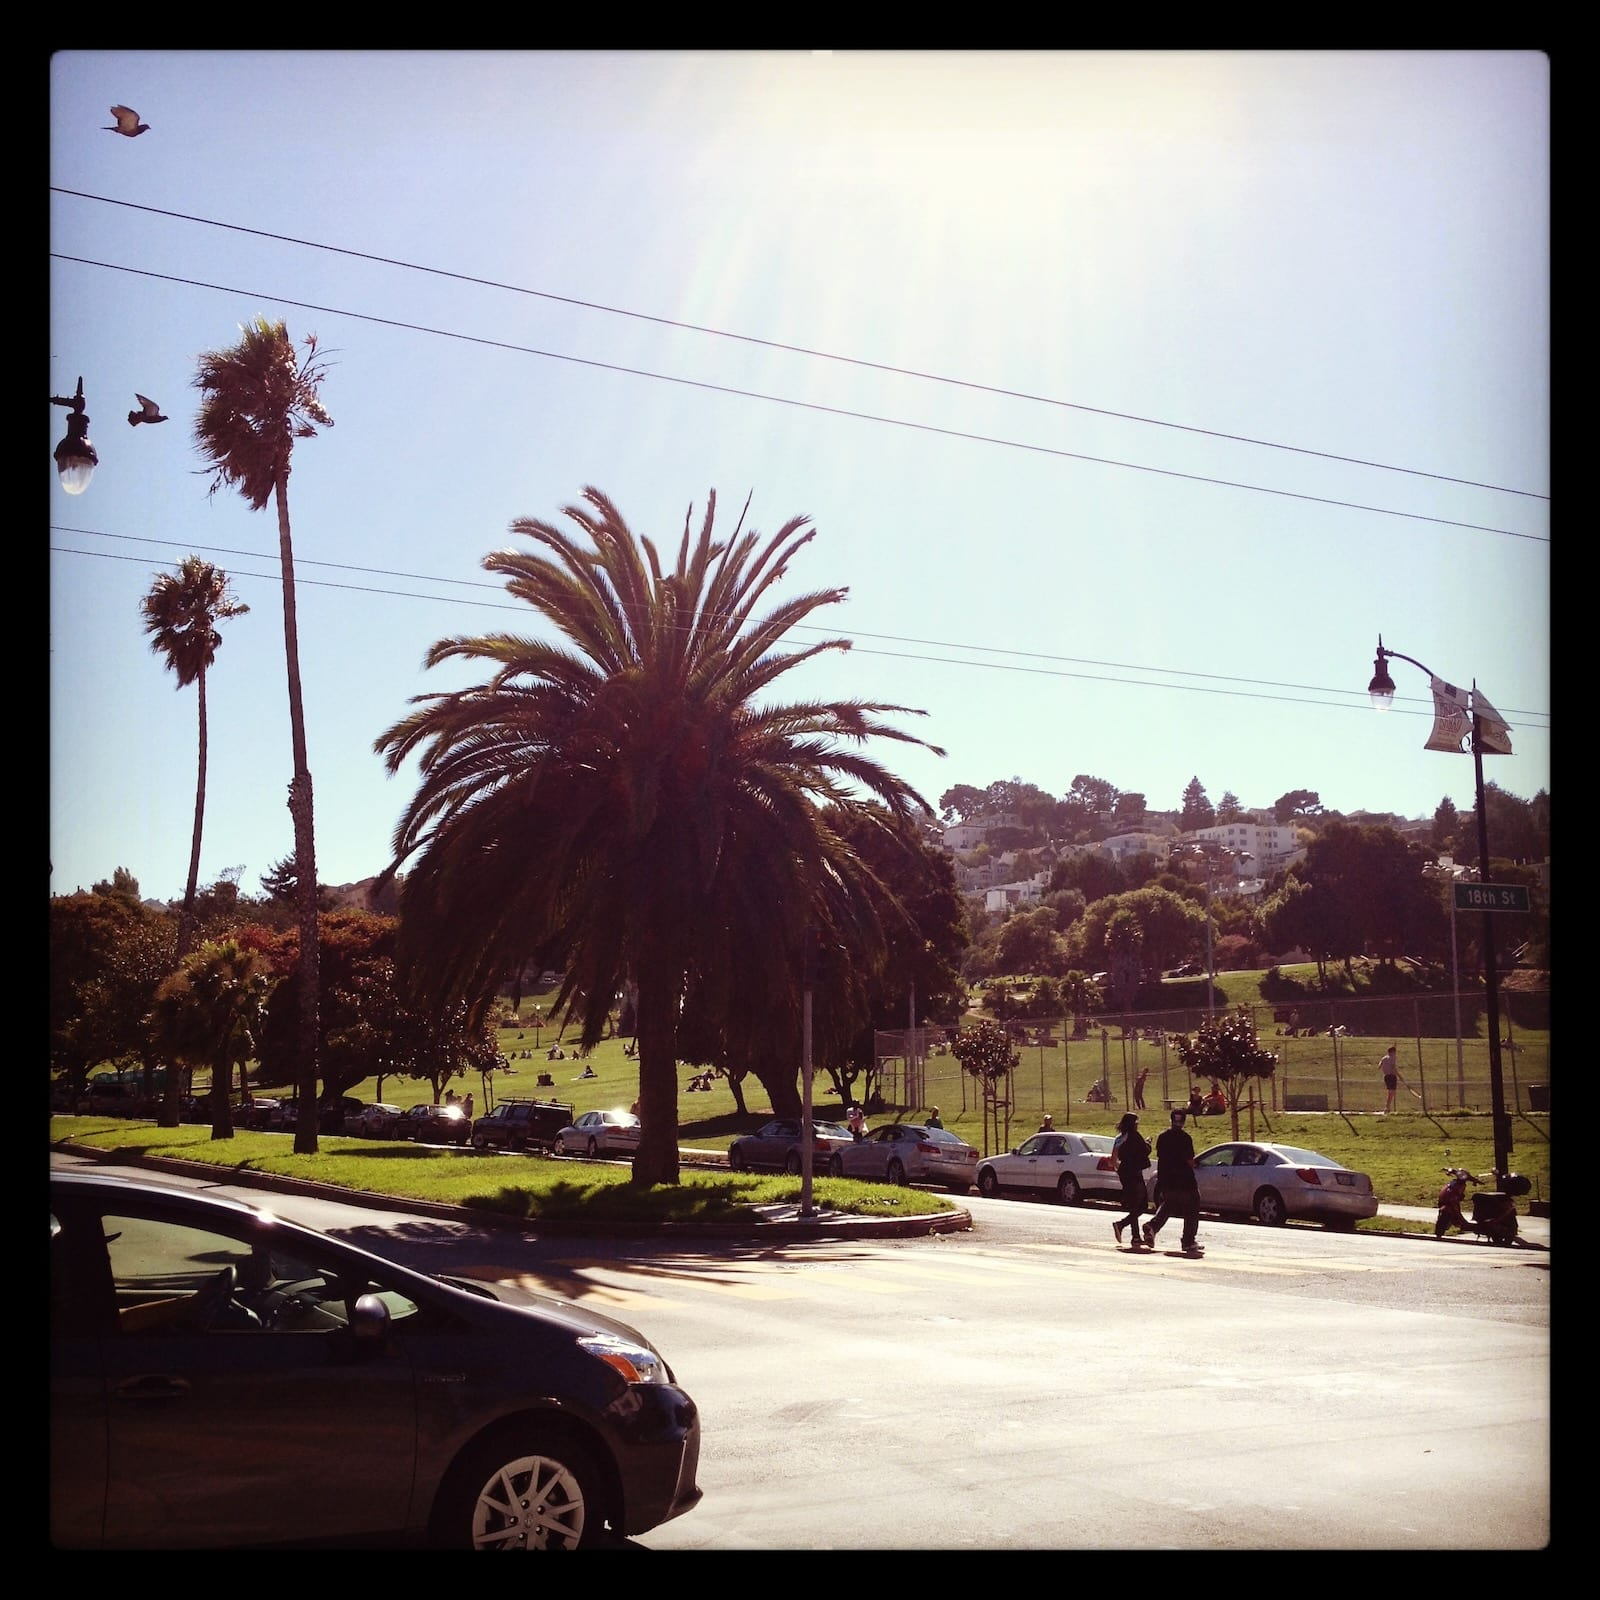
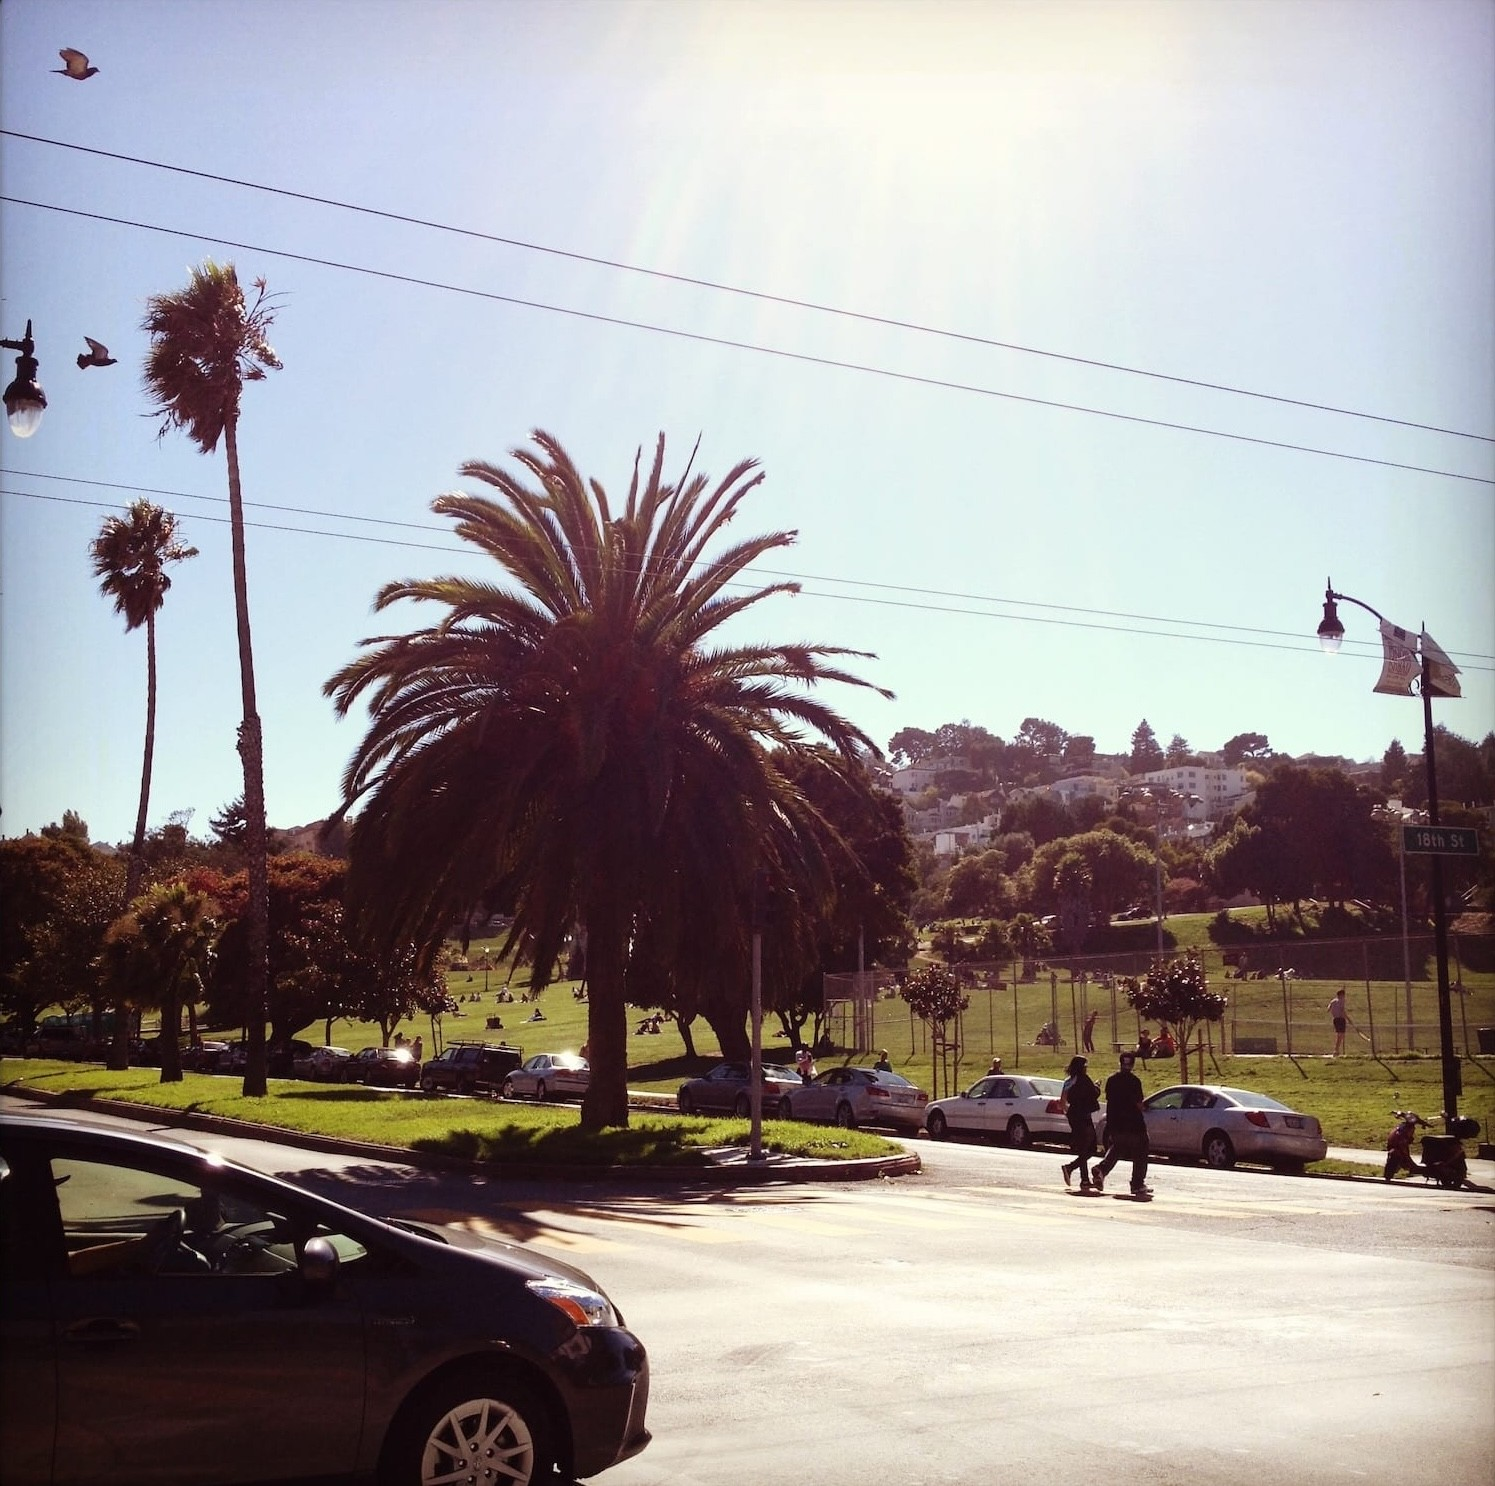
Add social links and refresh Work card content
Add LinkedIn, GitHub and Instagram links on the About page, fill in the
Trainn project descriptions, top-align the Work cards, and replace the
Dolores Park photo.

diff --git a/lib/content.ts b/lib/content.ts
@@ -3,13 +3,18 @@
 export const site = {
   name: "Sam Roth",
   tagline: "Operator, PM, Founder",
-  email: "sam@trainn.pro",
+  email: "samgroth@gmail.com",
+  socials: {
+    linkedin: "https://www.linkedin.com/in/samuelgroth/",
+    github: "https://github.com/sam-trainnpro",
+    instagram: "https://www.instagram.com/sgroth/",
+  },
 };
 
 export type Project = {
   title: string;
   company?: string;
-  year: string;
+  year?: string;
   summary: string;
   // Tailwind gradient classes for the card panel until a real image is added.
   gradient: string;
@@ -29,37 +34,38 @@ export const projects: Project[] = [
   {
     title: "Trainn: Promo Codes + Credits",
     year: "Sept 2025",
-    summary: "PLACEHOLDER: the problem, what you did, and the result.",
+    summary:
+      "Feature to offer admin or provider created promo codes and referral credits.",
     gradient: "from-amber-200 via-orange-200 to-rose-300",
     image: { src: "/work/trainn-promo-codes.webp", width: 675, height: 1439 },
   },
   {
-    title: "PLACEHOLDER project",
-    company: "Fenix",
-    year: "Year",
-    summary: "PLACEHOLDER: the problem, what you did, and the result.",
+    title: "Trainn: Subscription Service",
+    summary: "Built subscription packages.",
     gradient: "from-emerald-200 via-teal-200 to-cyan-300",
   },
   {
-    title: "PLACEHOLDER project",
-    company: "Clean Focus",
-    year: "Year",
-    summary: "PLACEHOLDER: the problem, what you did, and the result.",
+    title: "Personal: Practice Hard Conversations",
+    summary: "Have the conversation with AI before having it live.",
+    gradient: "from-fuchsia-200 via-pink-200 to-rose-300",
+  },
+  {
+    title: "Sunrun: New Market Analysis Tool",
+    summary: "A product to evaluate potential new markets by zip code.",
     gradient: "from-lime-200 via-emerald-200 to-teal-300",
   },
   {
-    title: "PLACEHOLDER side project",
-    company: "Side Project",
-    year: "Year",
-    summary: "PLACEHOLDER: something you built for fun.",
-    gradient: "from-fuchsia-200 via-pink-200 to-rose-300",
+    title: "Personal: Learn to Read",
+    summary: "A program to help my kids learn to read.",
+    gradient: "from-yellow-200 via-amber-200 to-orange-300",
   },
 ];
 
 export const about = {
   headline:
     "15 years chasing impact locally and globally. GM/operator turned PM turned Founder. Dad of two, longboard surfer, campfire guitarist.",
-  contactLine: "PLACEHOLDER: Always happy to talk product, startups, or ___.",
+  contactLine:
+    "Always happy to talk product, guitar songs, or beginner surf breaks.",
 };
 
 export type Row = {
@@ -86,7 +92,7 @@ export const cameraRoll: {
   width: number;
   height: number;
 }[] = [
-  { src: "/photos/01-dolores-park.jpg", caption: "Dolores Park, San Francisco", width: 1600, height: 1600 },
+  { src: "/photos/01-dolores-park.jpg", caption: "Dolores Park, San Francisco", width: 1495, height: 1486 },
   { src: "/photos/02-great-wall-china.jpg", caption: "Great Wall, China", width: 1600, height: 2134 },
   { src: "/photos/03-aspen-bowl.jpg", caption: "Aspen Bowl", width: 1600, height: 1200 },
   { src: "/photos/04-elephants-zambia.jpg", caption: "Elephants, Zambia", width: 1600, height: 1200 },

diff --git a/components/social-links.tsx b/components/social-links.tsx
@@ -1,0 +1,61 @@
+import { site } from "@/lib/content";
+
+// Outline brand icons in the same style as the lucide icons used elsewhere (lucide no longer ships brand logos).
+const icons = {
+  linkedin: (
+    <>
+      <path d="M16 8a6 6 0 0 1 6 6v7h-4v-7a2 2 0 0 0-2-2 2 2 0 0 0-2 2v7h-4v-7a6 6 0 0 1 6-6z" />
+      <rect x="2" y="9" width="4" height="12" />
+      <circle cx="4" cy="4" r="2" />
+    </>
+  ),
+  github: (
+    <>
+      <path d="M15 22v-4a4.8 4.8 0 0 0-1-3.5c3 0 6-2 6-5.5.08-1.25-.27-2.48-1-3.5.28-1.15.28-2.35 0-3.5 0 0-1 0-3 1.5-2.64-.5-5.36-.5-8 0C6 2 5 2 5 2c-.3 1.15-.3 2.35 0 3.5A5.403 5.403 0 0 0 4 9c0 3.5 3 5.5 6 5.5-.39.49-.68 1.05-.85 1.65-.17.6-.22 1.23-.15 1.85v4" />
+      <path d="M9 18c-4.51 2-5-2-7-2" />
+    </>
+  ),
+  instagram: (
+    <>
+      <rect x="2" y="2" width="20" height="20" rx="5" />
+      <circle cx="12" cy="12" r="4" />
+      <line x1="17.5" y1="6.5" x2="17.51" y2="6.5" />
+    </>
+  ),
+};
+
+const labels: Record<keyof typeof icons, string> = {
+  linkedin: "LinkedIn",
+  github: "GitHub",
+  instagram: "Instagram",
+};
+
+export function SocialLinks({ className }: { className?: string }) {
+  return (
+    <div className={`flex items-center gap-5 ${className ?? ""}`}>
+      {(Object.keys(icons) as (keyof typeof icons)[]).map((key) => (
+        <a
+          key={key}
+          href={site.socials[key]}
+          target="_blank"
+          rel="noreferrer"
+          aria-label={labels[key]}
+          className="text-stone-400 transition-colors hover:text-stone-900 dark:text-stone-500 dark:hover:text-stone-100"
+        >
+          <svg
+            viewBox="0 0 24 24"
+            fill="none"
+            stroke="currentColor"
+            strokeWidth={1.75}
+            strokeLinecap="round"
+            strokeLinejoin="round"
+            className="h-5 w-5"
+            aria-hidden="true"
+          >
+            {icons[key]}
+          </svg>
+        </a>
+      ))}
+    </div>
+  );
+}

diff --git a/app/page.tsx b/app/page.tsx
@@ -6,8 +6,8 @@ export default function Home() {
   return (
     <main className="flex-1 flex flex-col md:justify-center">
       <ScrollRow
-        buttonClassName="top-[calc(50%-4.5rem)]"
-        className="flex flex-col gap-10 px-6 pt-6 pb-14 md:flex-row md:items-end md:gap-12 md:overflow-x-auto md:snap-x md:scroll-px-8 md:px-[max(2rem,calc((100vw-80rem)/2+2rem))] md:pt-2 md:pb-16 [scrollbar-width:none] [&::-webkit-scrollbar]:hidden">
+        buttonClassName="top-[calc(0.5rem+min(70vw,35rem)/3)]"
+        className="flex flex-col gap-10 px-6 pt-6 pb-14 md:flex-row md:items-start md:gap-12 md:overflow-x-auto md:snap-x md:scroll-px-8 md:px-[max(2rem,calc((100vw-80rem)/2+2rem))] md:pt-2 md:pb-16 [scrollbar-width:none] [&::-webkit-scrollbar]:hidden">
         {projects.map((project, i) => (
           <article
             key={i}

diff --git a/app/about/page.tsx b/app/about/page.tsx
@@ -1,6 +1,7 @@
 import type { Metadata } from "next";
 import Image from "next/image";
 import { ScrollRow } from "@/components/scroll-row";
+import { SocialLinks } from "@/components/social-links";
 import {
   about,
   cameraRoll,
@@ -132,6 +133,7 @@ export default function About() {
               →
             </span>
           </a>
+          <SocialLinks className="mt-8" />
         </div>
       </section>
     </main>
